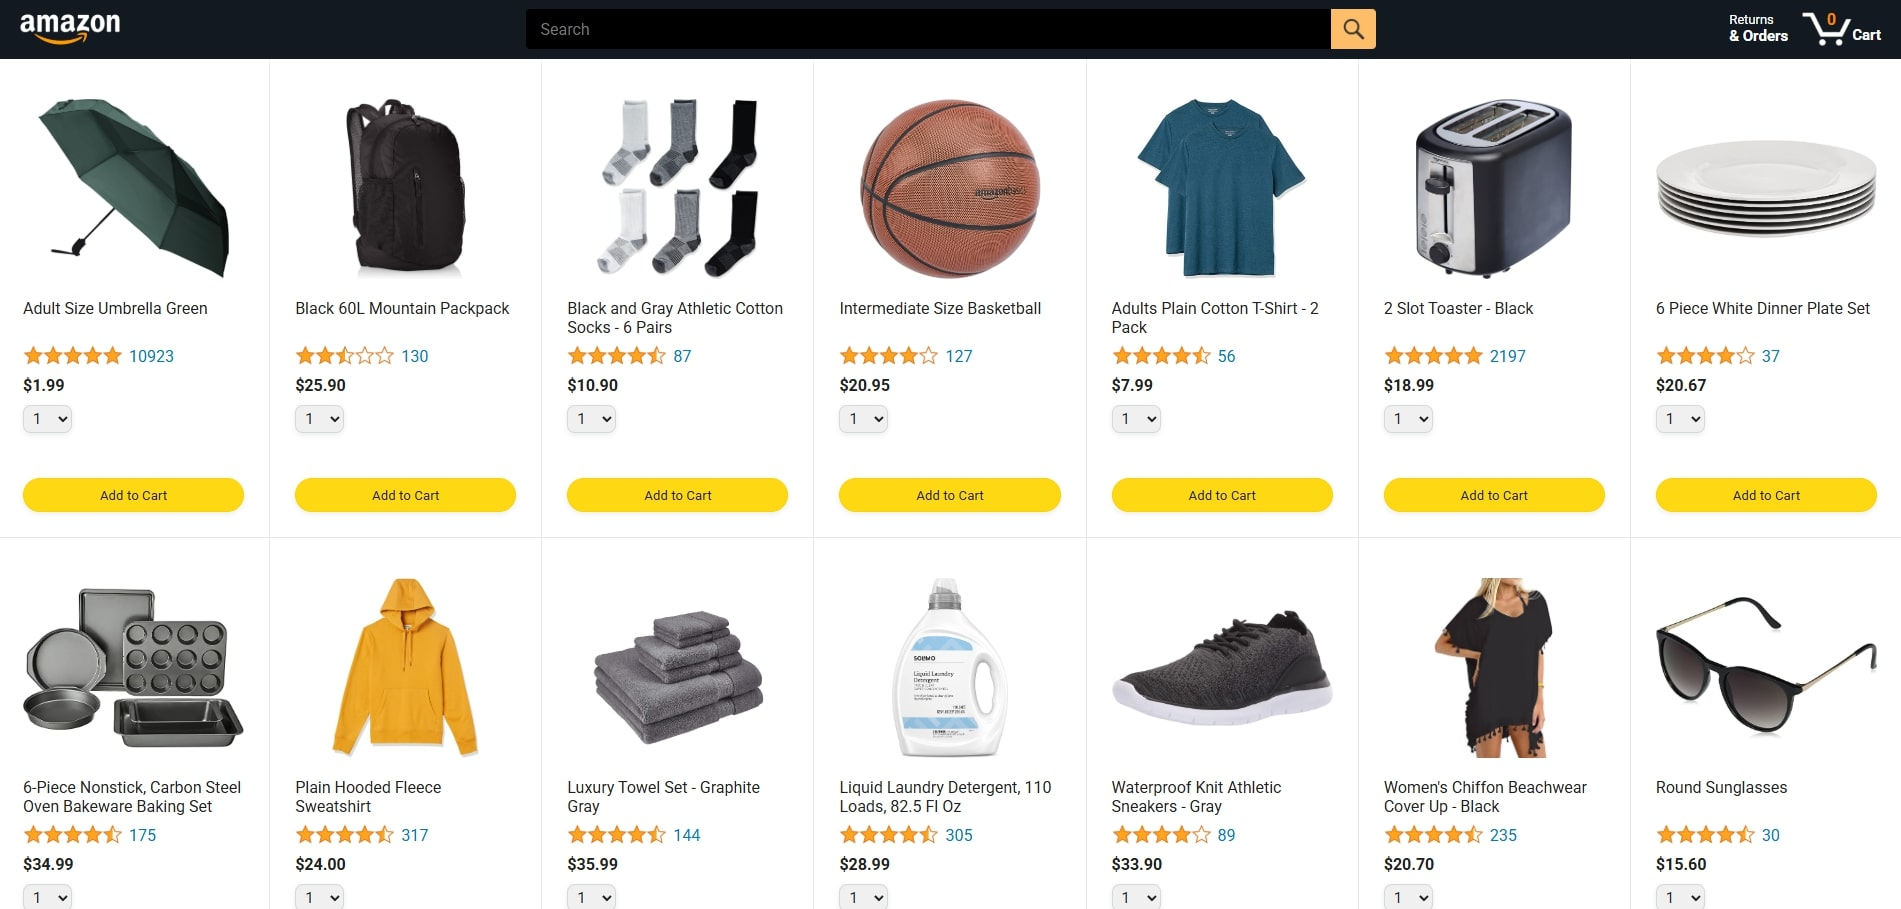
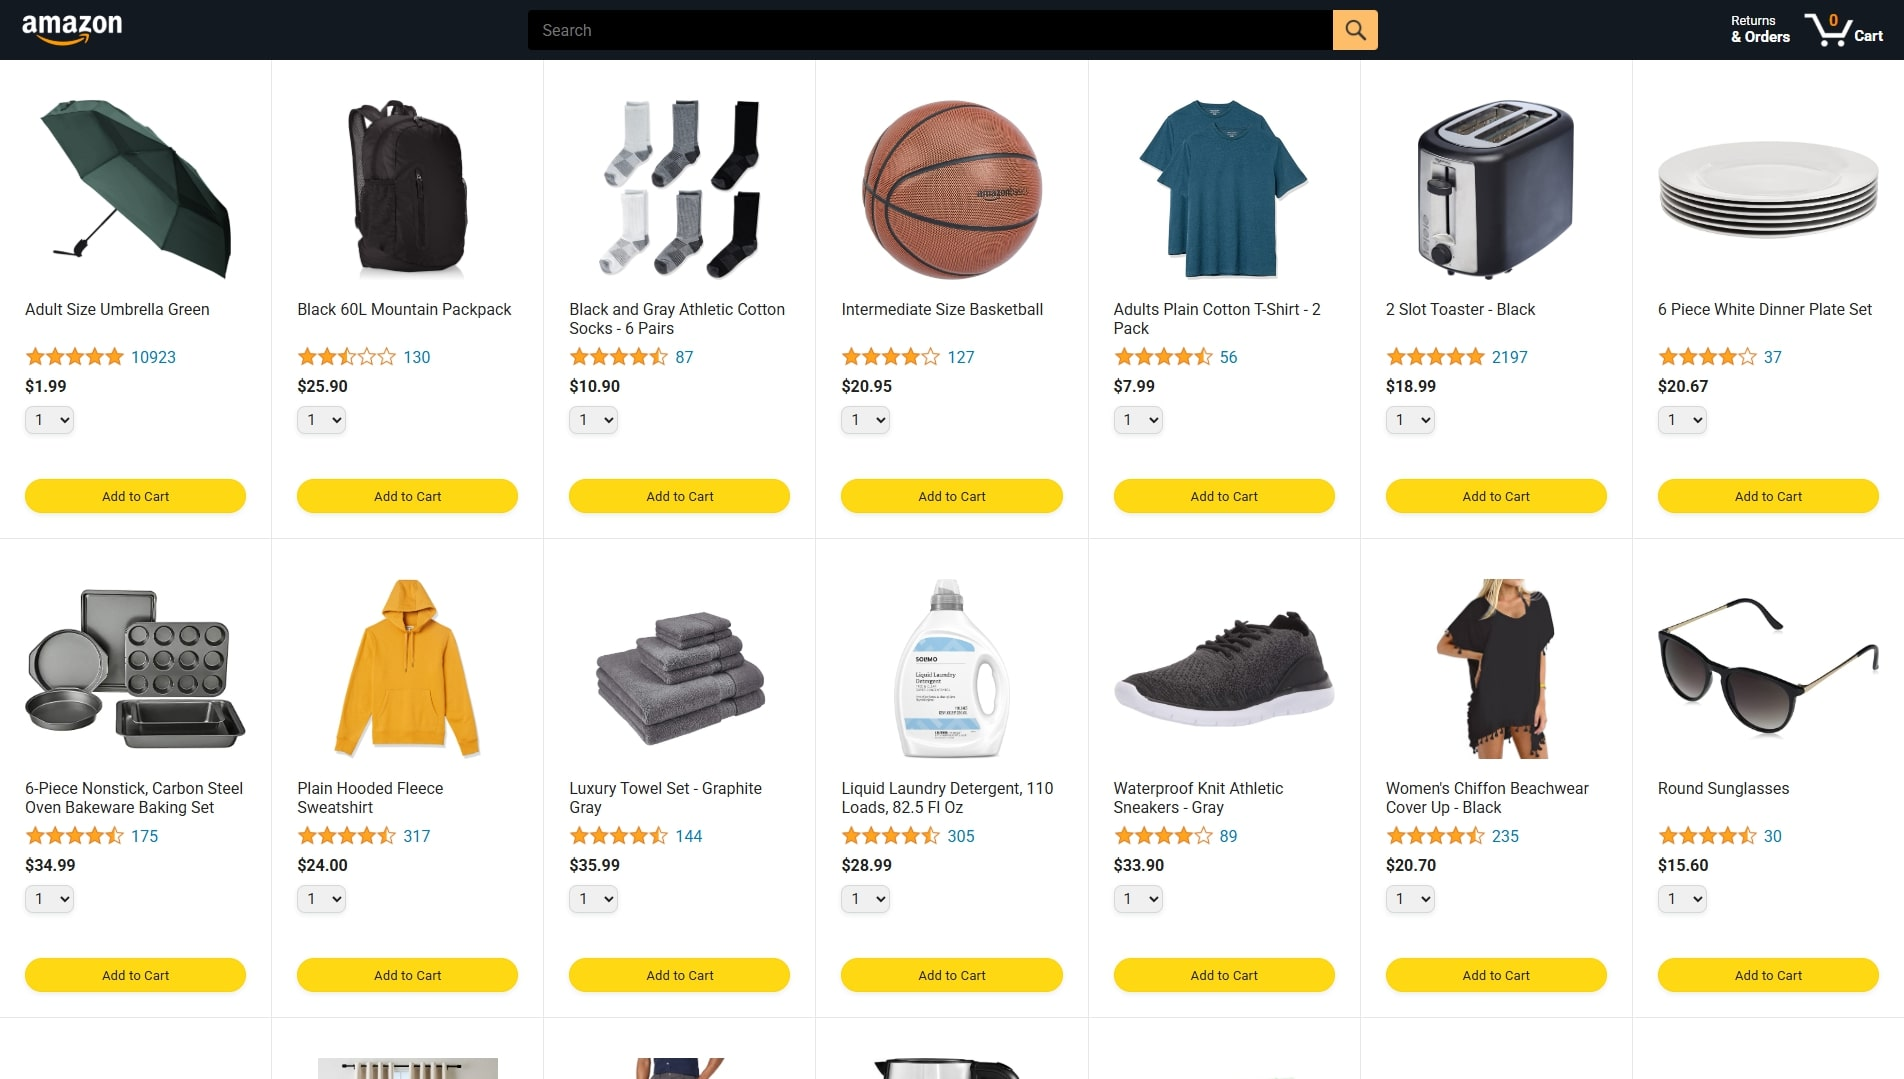
16:9 ratio images

diff --git a/assets/css/welcome.css b/assets/css/welcome.css
@@ -147,9 +147,9 @@
 
   .image-container img {
     position: sticky;
-    top: calc(50vh - (min(var(--maxw), 90vw) / (1905 / 909) / 2));
+    top: calc(50vh - (min(var(--maxw), 90vw) / (16 / 9) / 2));
     width: min(var(--maxw), 90vw);
-    aspect-ratio: 1905 / 909;
+    aspect-ratio: 16 / 9;
     object-fit: cover;
     border-radius: var(--radius);
     box-shadow: 0 10px 30px rgba(0, 0, 0, 0.35);
